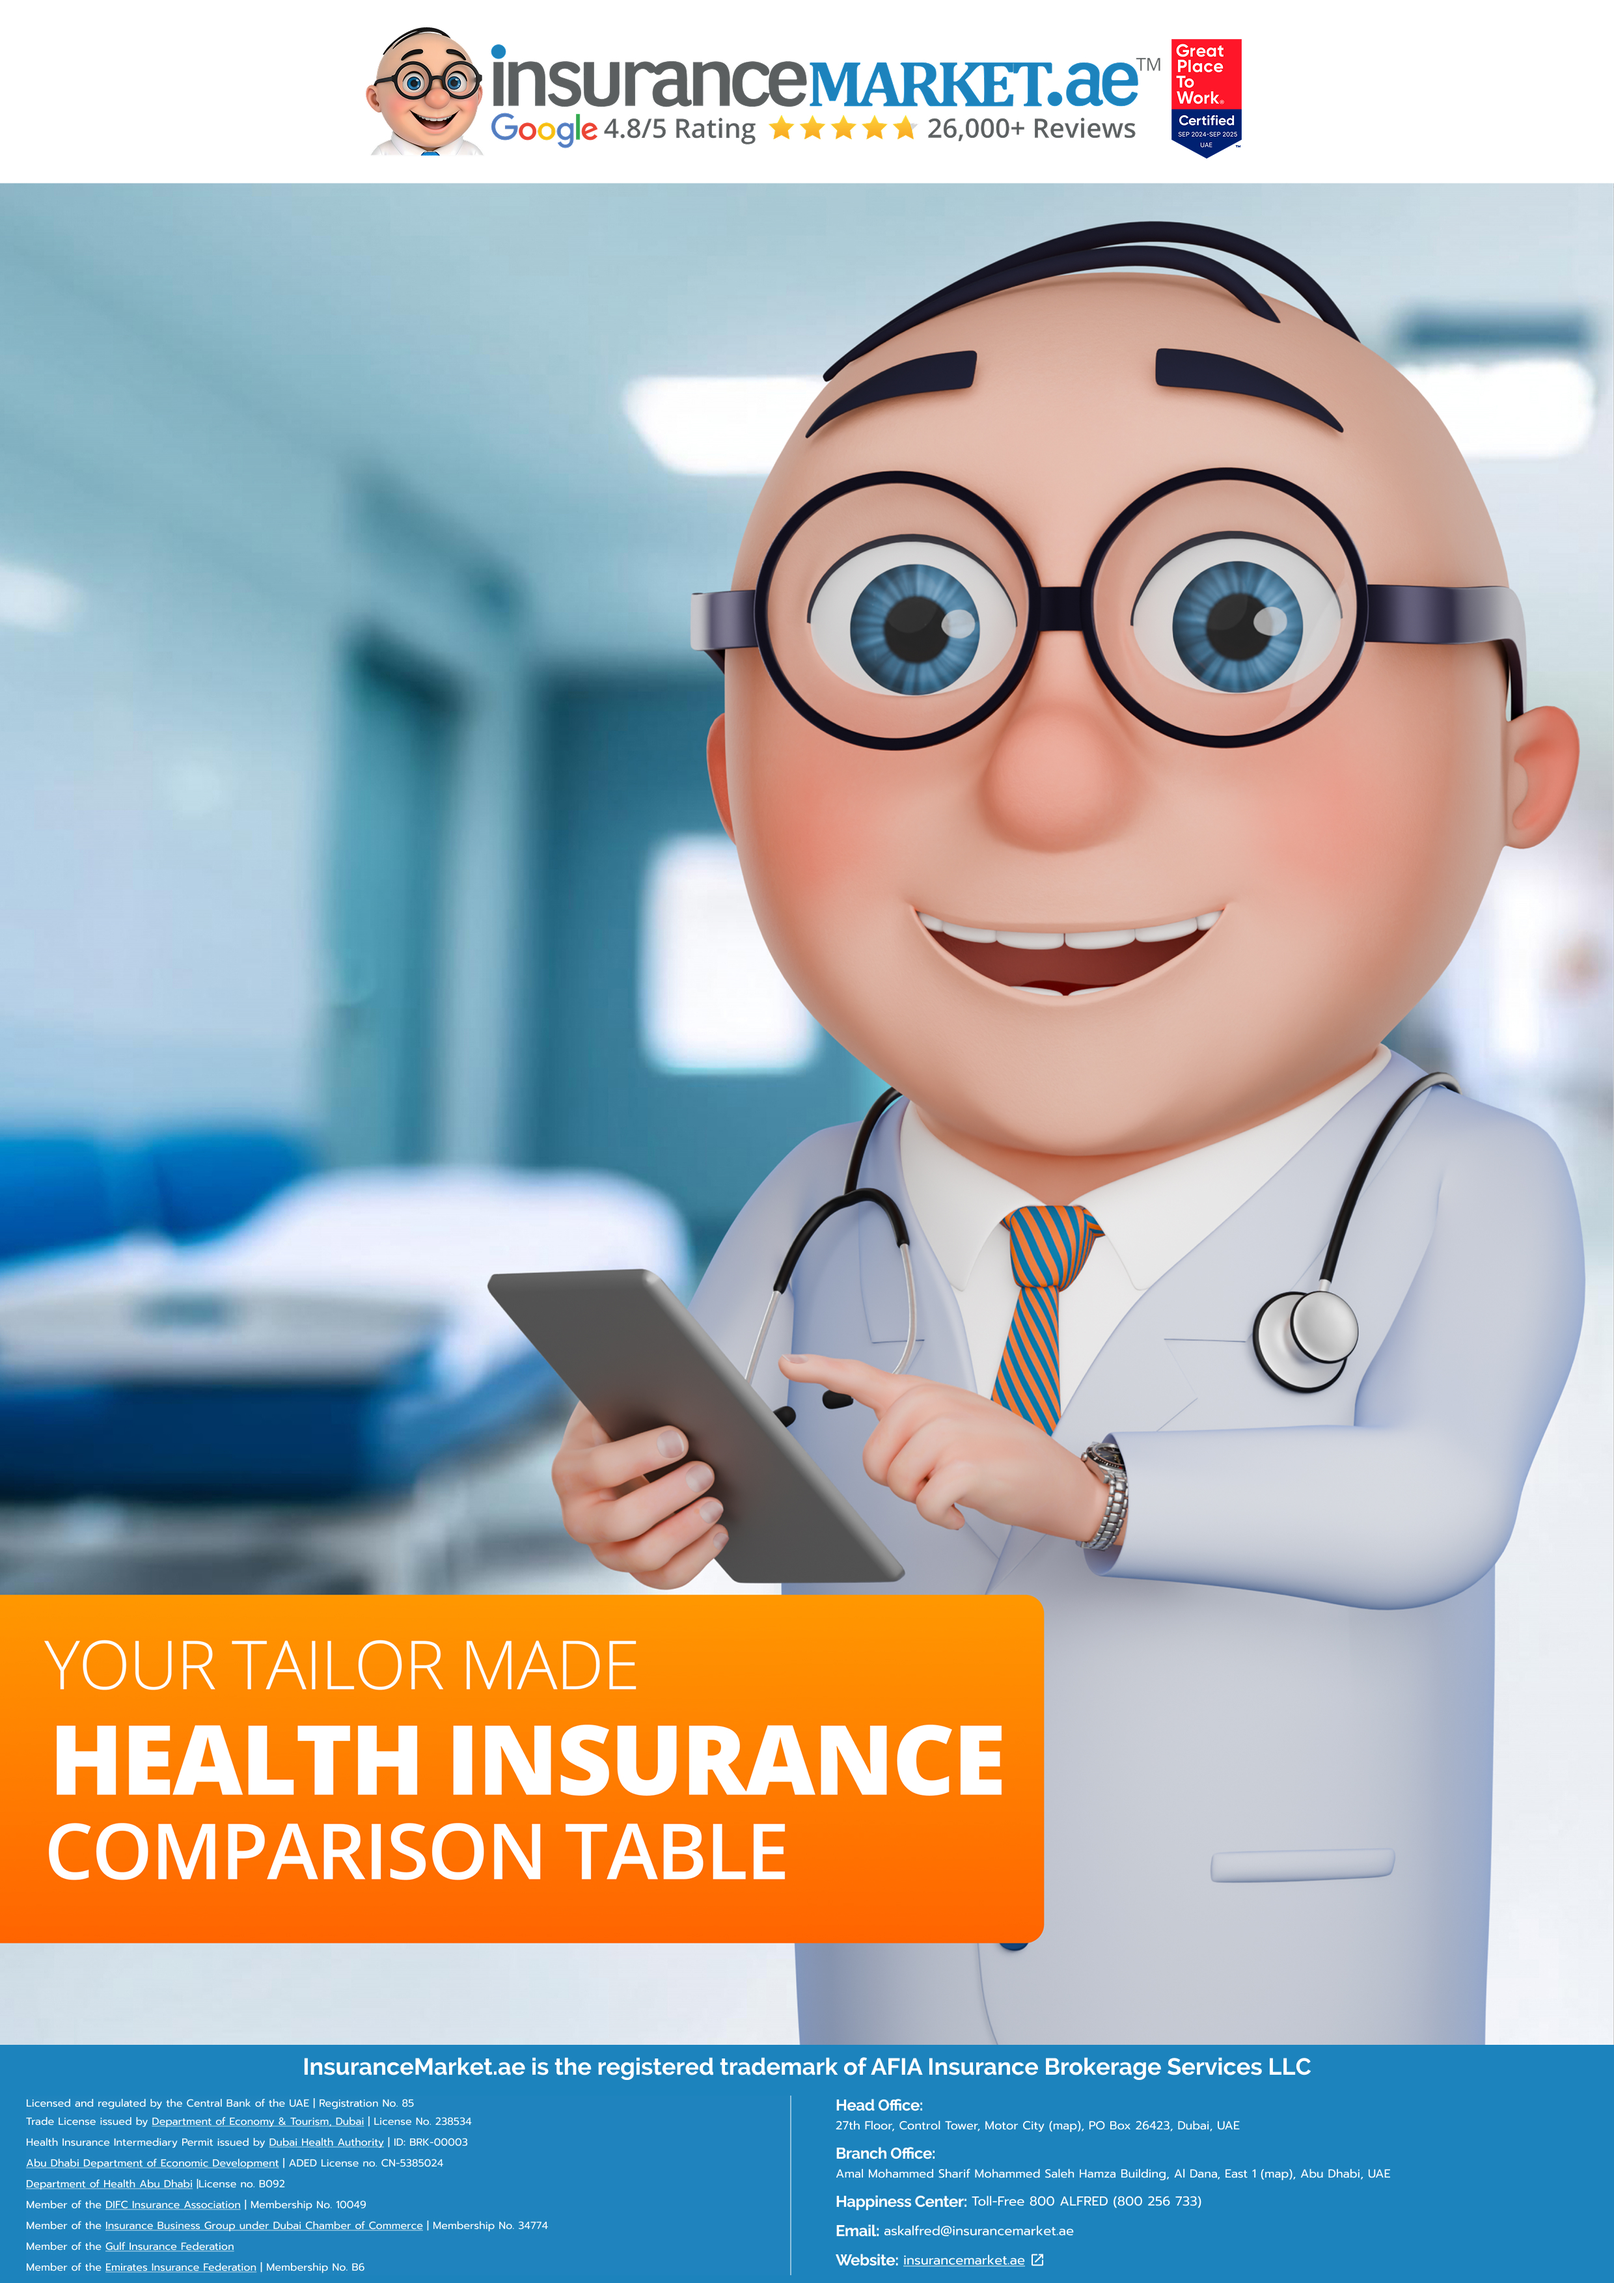
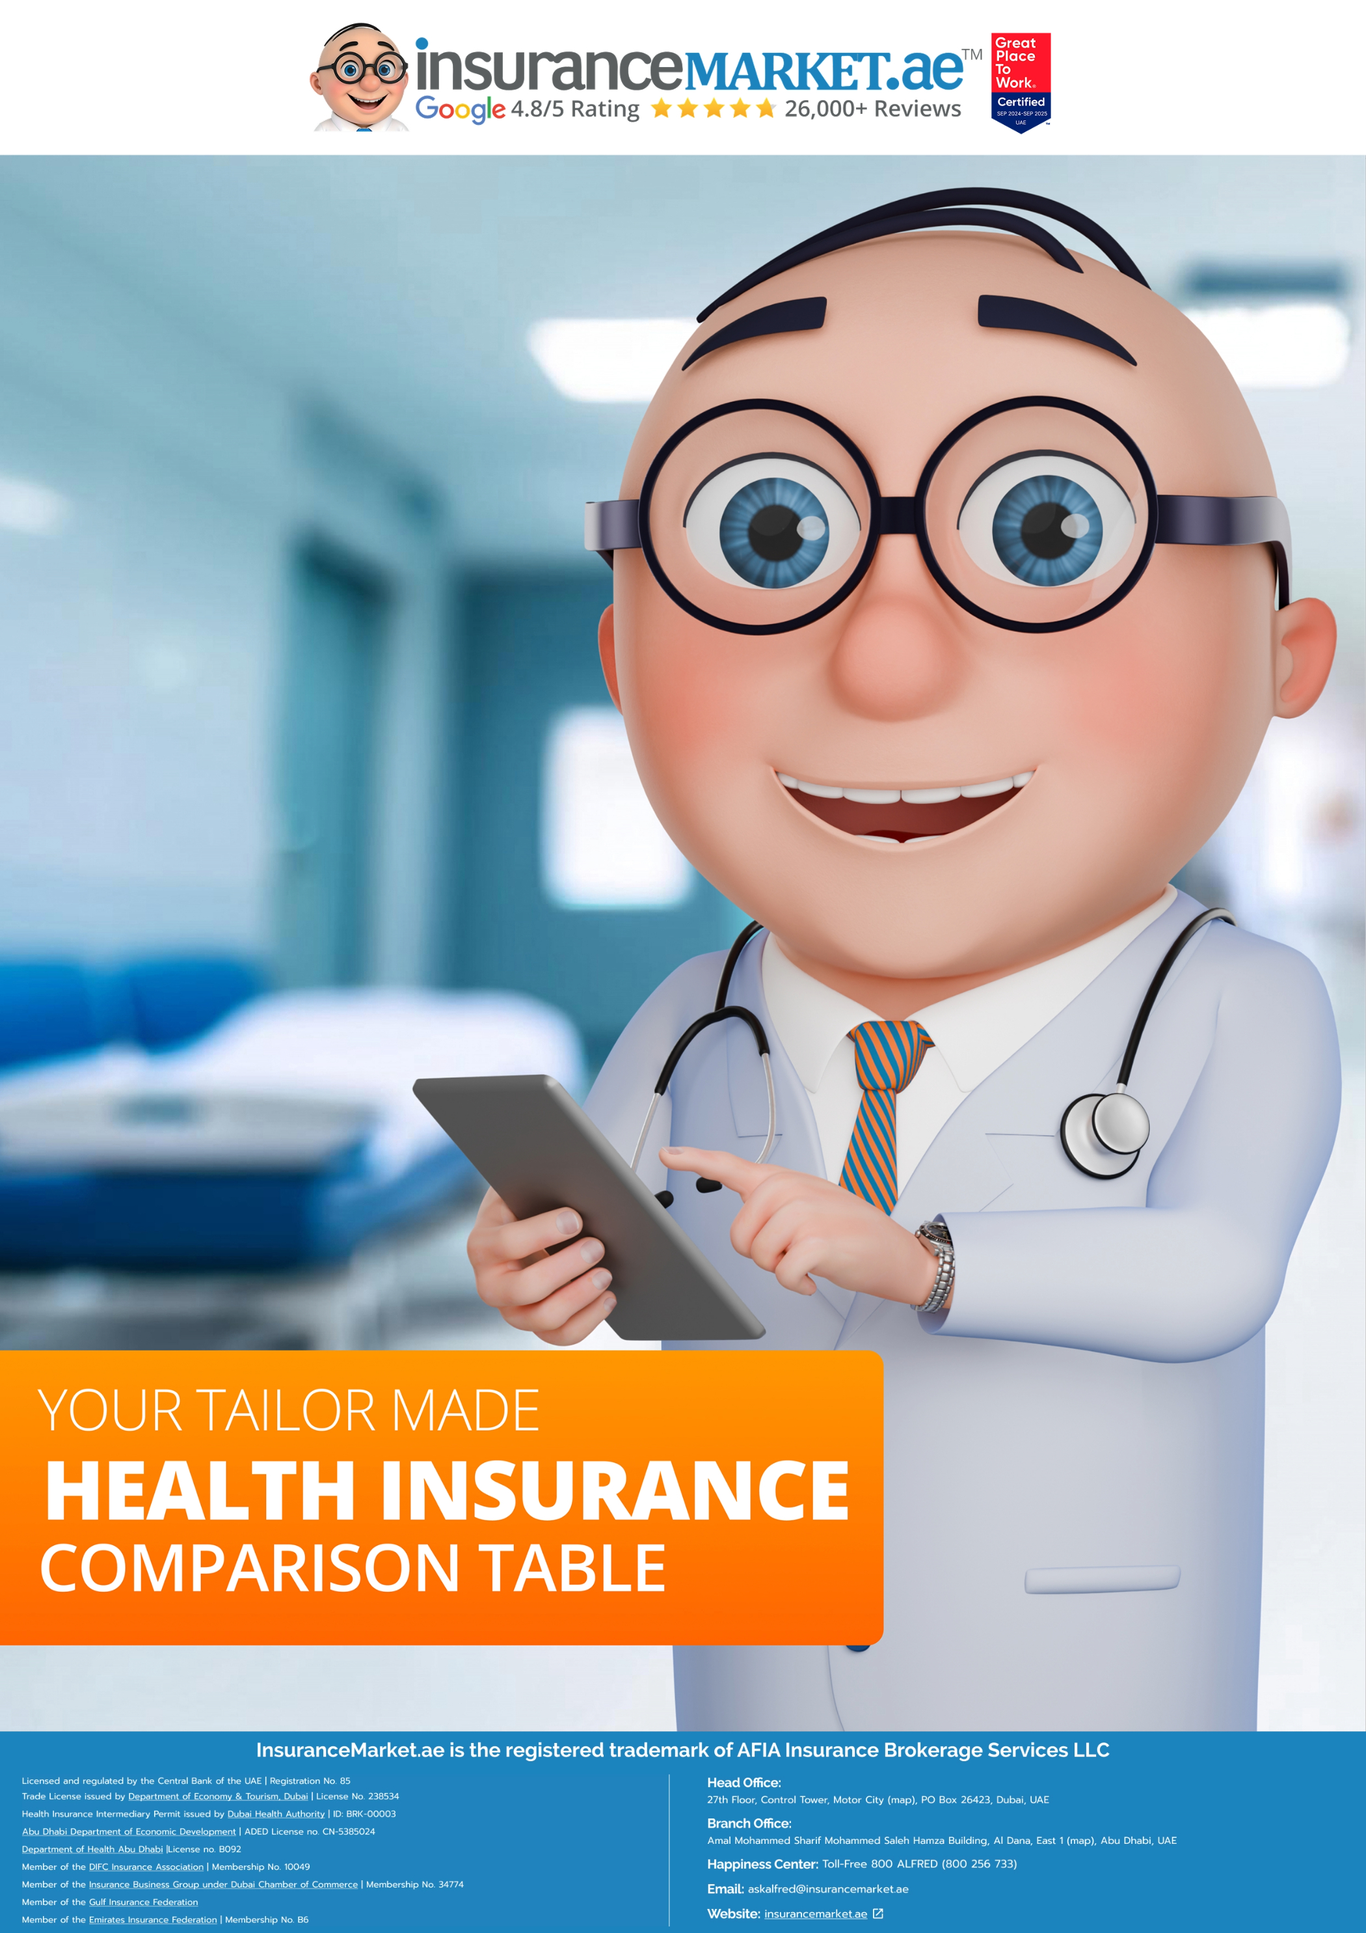
Update health_quote_plans.blade.php to adjust image height for better fit and add page break. Modify footer section widths in pdf_footer_section.blade.php for improved layout consistency.

Changed region(s): [[0.0929, 0.9603, 0.1548, 1.0], [0.5571, 0.9912, 0.619, 1.0], [0.619, 0.9603, 0.65, 0.9912]]

diff --git a/resources/views/pdf/components/pdf_footer_section.blade.php b/resources/views/pdf/components/pdf_footer_section.blade.php
@@ -178,7 +178,7 @@
 
     <table class="footer-table" >
         <tr>
-            <td class="footer-td" style="width:40%">
+            <td class="footer-td" style="width:38%">
                 <div class="footer-box" >
                     <p class="footer-content-1">
                         Licensed and regulated by the 
@@ -236,7 +236,7 @@
                     </p>
                 </div>
             </td>
-            <td class="footer-td" style="width:30%">
+            <td class="footer-td" style="width:32%">
                 <div class="footer-box" style="margin-top: 5px; line-height: 0.8; position: relative;">
                     <p class="footer-content-2">
                       
@@ -276,8 +276,8 @@
                 </div>
             </td>
 
-            <td class="footer-td" style="width: 30%;">
-            <div class="footer-box" style= "line-height: 0.10; position: relative;">
+            <td class="footer-td" style="width: 30%; vertical-align: top; text-align: right;">
+                <div class="footer-box" style="line-height: 1.2; position: relative; float: right; text-align: left; display: inline-block; min-width: 180px;">
                     <div class="advisor-section">
                         @if($quote->advisor)
                             <div class="advisor-photo-container">

diff --git a/resources/views/pdf/health_quote_plans.blade.php b/resources/views/pdf/health_quote_plans.blade.php
@@ -300,6 +300,7 @@
         .full-page-image {
             width: 100%;
             z-index: 999;
+            height: 88%;
         }
 
         .text-center {
@@ -320,7 +321,8 @@
 
 <body>
     {{-- First Page --}}
-    <img src="{{ public_path('images/quote_plans_pages/comparison-table-health.jpg') }}" class="full-page-image" />
+    <img src="{{ public_path('images/quote_plans_pages/comparison-table-health.jpg') }}" class="full-page-image"  style="height: 100%;"/>
+    <div style="page-break-after: always;"></div>
     @php
         $websitURL = config('constants.AFIA_WEBSITE_DOMAIN');
         $plans = [];
